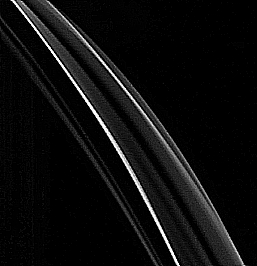
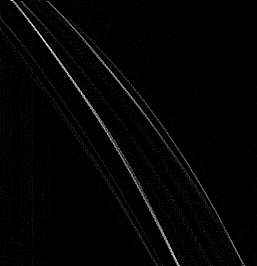
start firebrand detection

diff --git a/templates/index.html b/templates/index.html
@@ -48,6 +48,11 @@
     <input type="number" name="equation_scaling_factor" value="0.55" step="0.001"/>
     <br>
 
+    <h4>Firebrand Detection Settings</h4>
+
+    <label for="edge_amp">Edge Amplification</label>
+    <input type="number" name="edge_amp" value="10", step="0.1"/>
+
     <h4>Output Settings</h4>
 
     <label for="smoothing_radius">Smoothing Radius (px)</label>

diff --git a/examples/pyrometry/edge_detection.py b/examples/pyrometry/edge_detection.py
@@ -4,7 +4,7 @@ import cv2 as cv
 import numpy as np
 
 # edge-detection kernel amplification
-AMPLIFIER=9
+AMPLIFIER=8
 
 MIN_INTENSITY=100
 
